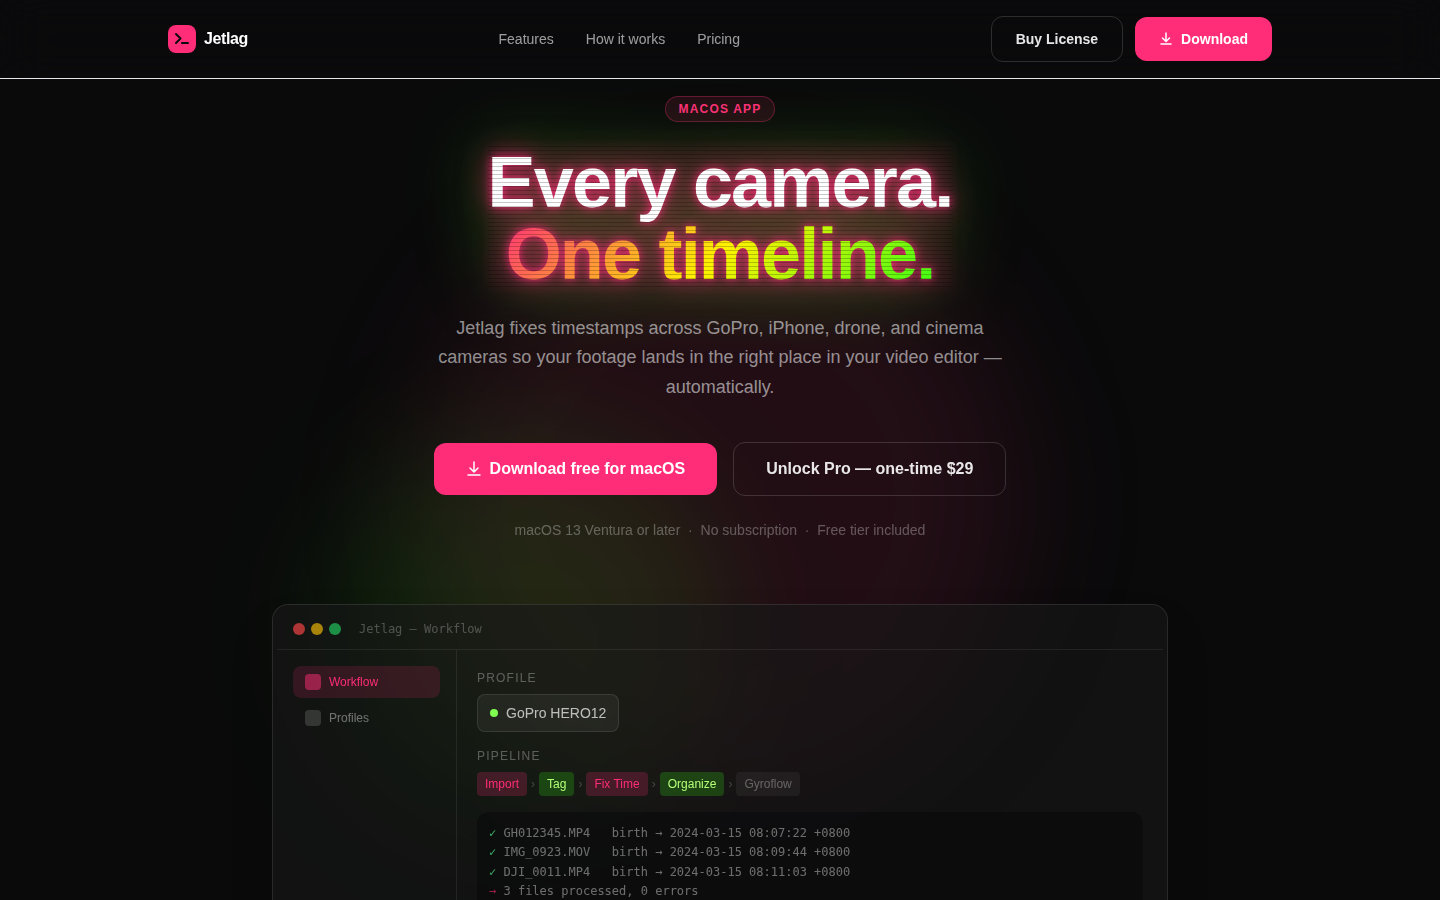
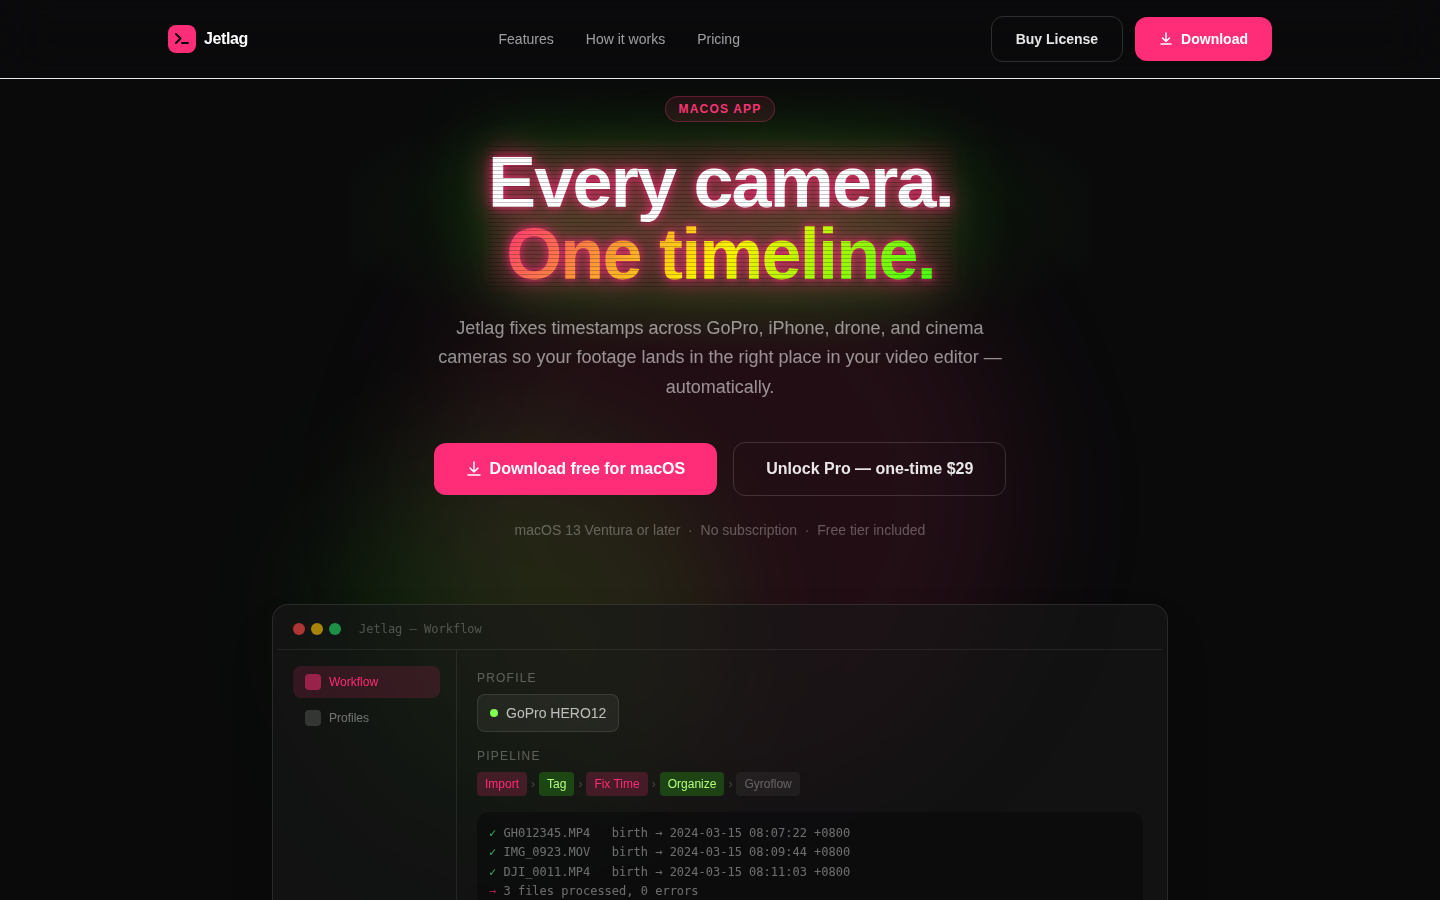
add vignette and occasional glitch/VHS effect to hero headline
Wraps the "Every camera. One timeline." h1 in a `.headline-wrap` div
that renders a soft radial-gradient vignette (pink→green→transparent)
behind the text, making it glow out into the surrounding dark background.

A new `.vhs-glitch` CSS animation plays on the h1: 88% of each 10s loop
is static, then a brief RGB-shift burst fires — translateX + skewX with
split cyan/green drop-shadows to simulate channel separation, followed by
an opacity flicker, matching the 80s VHS aesthetic of the rest of the page.
The spray-paint filter values are replicated in the "normal" keyframe states
so there's no visual pop when the animation begins.

Tested: build passes, hero screenshot reviewed.

https://github.com/brokenalarms/Jetlag/compare/claude/timeline-vignette-glitch-effect-SN7my

diff --git a/web/src/style.css b/web/src/style.css
@@ -92,4 +92,84 @@
   .bg-white\/4 {
     background-color: rgba(255, 255, 255, 0.04);
   }
+
+  /* Vignette behind the hero headline — soft radial glow fades into surroundings */
+  .headline-wrap {
+    position: relative;
+    isolation: isolate;
+  }
+  .headline-wrap::before {
+    content: '';
+    position: absolute;
+    inset: -60% -30%;
+    background: radial-gradient(
+      ellipse 75% 60% at 50% 50%,
+      rgba(255, 45, 120, 0.10) 0%,
+      rgba(57, 255, 20, 0.04) 45%,
+      transparent 72%
+    );
+    pointer-events: none;
+    z-index: -1;
+  }
+
+  /* Occasional VHS / glitch burst — long quiet period then a quick RGB-shift jitter */
+  @keyframes vhs-glitch {
+    0%, 88% {
+      transform: none;
+      filter:
+        drop-shadow(0 0 5px rgba(255, 45, 120, 0.95))
+        drop-shadow(0 0 15px rgba(255, 45, 120, 0.60))
+        drop-shadow(0 0 38px rgba(57, 255, 20, 0.35));
+    }
+    88.5% {
+      transform: translateX(4px) skewX(-0.8deg);
+      filter:
+        drop-shadow(4px 0 0 rgba(255, 45, 120, 0.90))
+        drop-shadow(-4px 0 0 rgba(0, 245, 255, 0.80))
+        drop-shadow(0 0 15px rgba(255, 45, 120, 0.50));
+    }
+    89% {
+      transform: translateX(-3px);
+      filter:
+        drop-shadow(-3px 0 0 rgba(255, 45, 120, 0.90))
+        drop-shadow(3px 0 0 rgba(57, 255, 20, 0.80))
+        drop-shadow(0 0 20px rgba(57, 255, 20, 0.40));
+    }
+    89.5% {
+      transform: translateX(2px) skewX(0.4deg);
+      opacity: 0.85;
+      filter:
+        drop-shadow(0 0 5px rgba(255, 45, 120, 0.95))
+        drop-shadow(0 0 15px rgba(255, 45, 120, 0.60))
+        drop-shadow(0 0 38px rgba(57, 255, 20, 0.35));
+    }
+    90% {
+      transform: none;
+      opacity: 0.65;
+      filter:
+        drop-shadow(0 0 5px rgba(255, 45, 120, 0.95))
+        drop-shadow(0 0 15px rgba(255, 45, 120, 0.60))
+        drop-shadow(0 0 38px rgba(57, 255, 20, 0.35));
+    }
+    90.3% {
+      transform: none;
+      opacity: 1;
+      filter:
+        drop-shadow(0 0 5px rgba(255, 45, 120, 0.95))
+        drop-shadow(0 0 15px rgba(255, 45, 120, 0.60))
+        drop-shadow(0 0 38px rgba(57, 255, 20, 0.35));
+    }
+    100% {
+      transform: none;
+      filter:
+        drop-shadow(0 0 5px rgba(255, 45, 120, 0.95))
+        drop-shadow(0 0 15px rgba(255, 45, 120, 0.60))
+        drop-shadow(0 0 38px rgba(57, 255, 20, 0.35));
+    }
+  }
+
+  .vhs-glitch {
+    animation: vhs-glitch 10s linear infinite;
+    animation-delay: 2.5s;
+  }
 }

diff --git a/web/src/sections/hero.js b/web/src/sections/hero.js
@@ -14,10 +14,12 @@ export function renderHero() {
       </div>
 
       <!-- Headline -->
-      <h1 class="vhs-scanlines spray-paint animate-fade-up opacity-0 mx-auto max-w-3xl text-center text-5xl font-bold leading-tight tracking-tight sm:text-6xl lg:text-7xl" style="animation-delay: 0.2s">
-        Every camera.<br>
-        <span class="text-gradient">One timeline.</span>
-      </h1>
+      <div class="headline-wrap animate-fade-up opacity-0" style="animation-delay: 0.2s">
+        <h1 class="vhs-scanlines spray-paint vhs-glitch mx-auto max-w-3xl text-center text-5xl font-bold leading-tight tracking-tight sm:text-6xl lg:text-7xl">
+          Every camera.<br>
+          <span class="text-gradient">One timeline.</span>
+        </h1>
+      </div>
 
       <!-- Subheadline -->
       <p class="animate-fade-up opacity-0 mx-auto mt-6 max-w-xl text-center text-lg leading-relaxed text-white/55" style="animation-delay: 0.35s">
